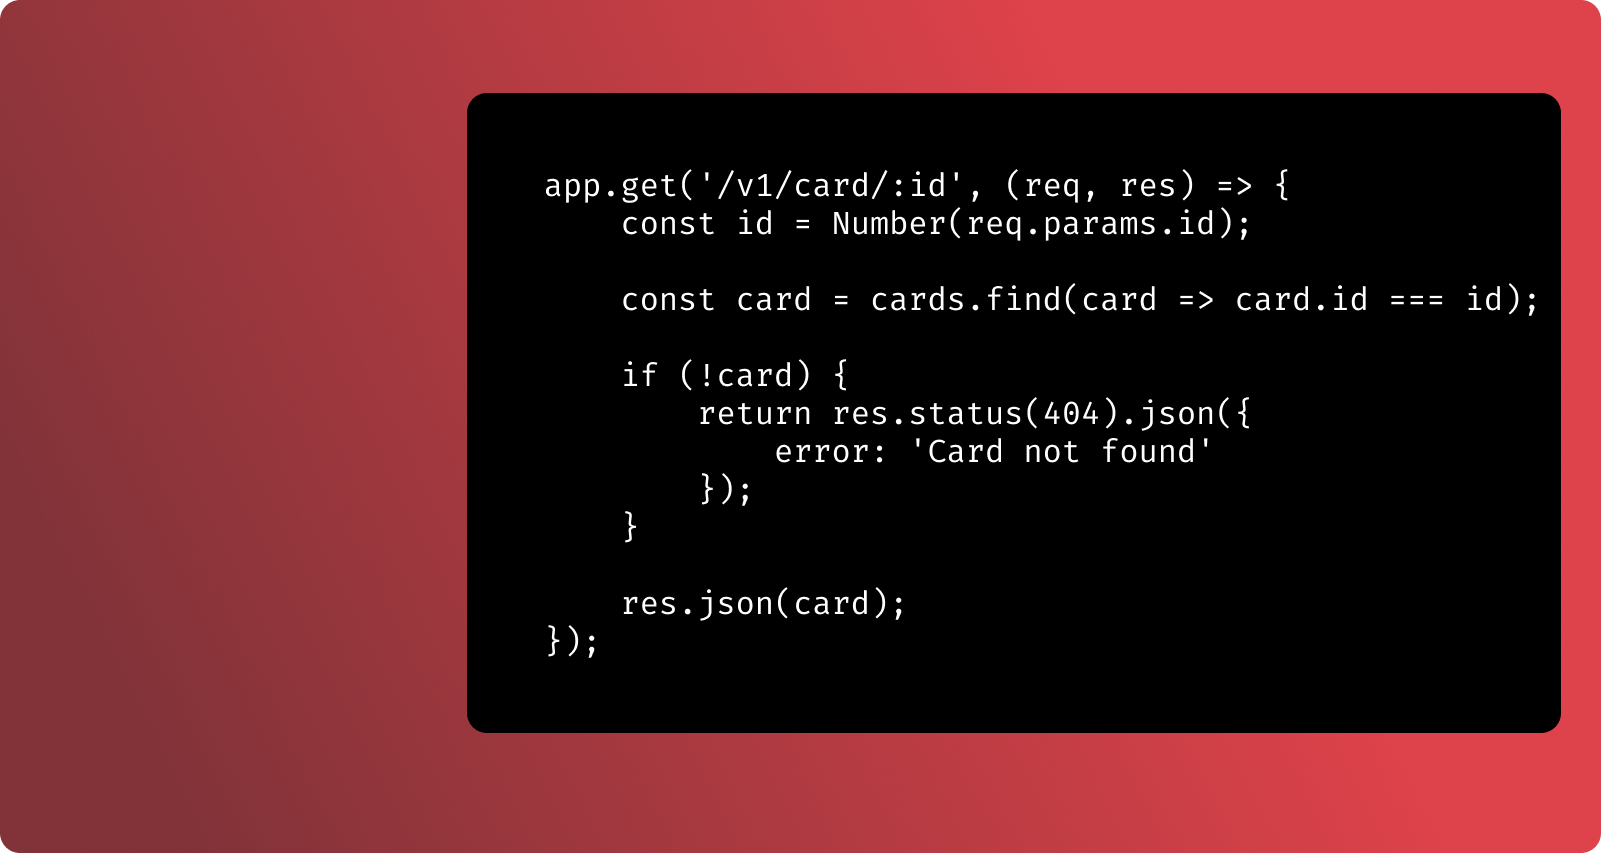
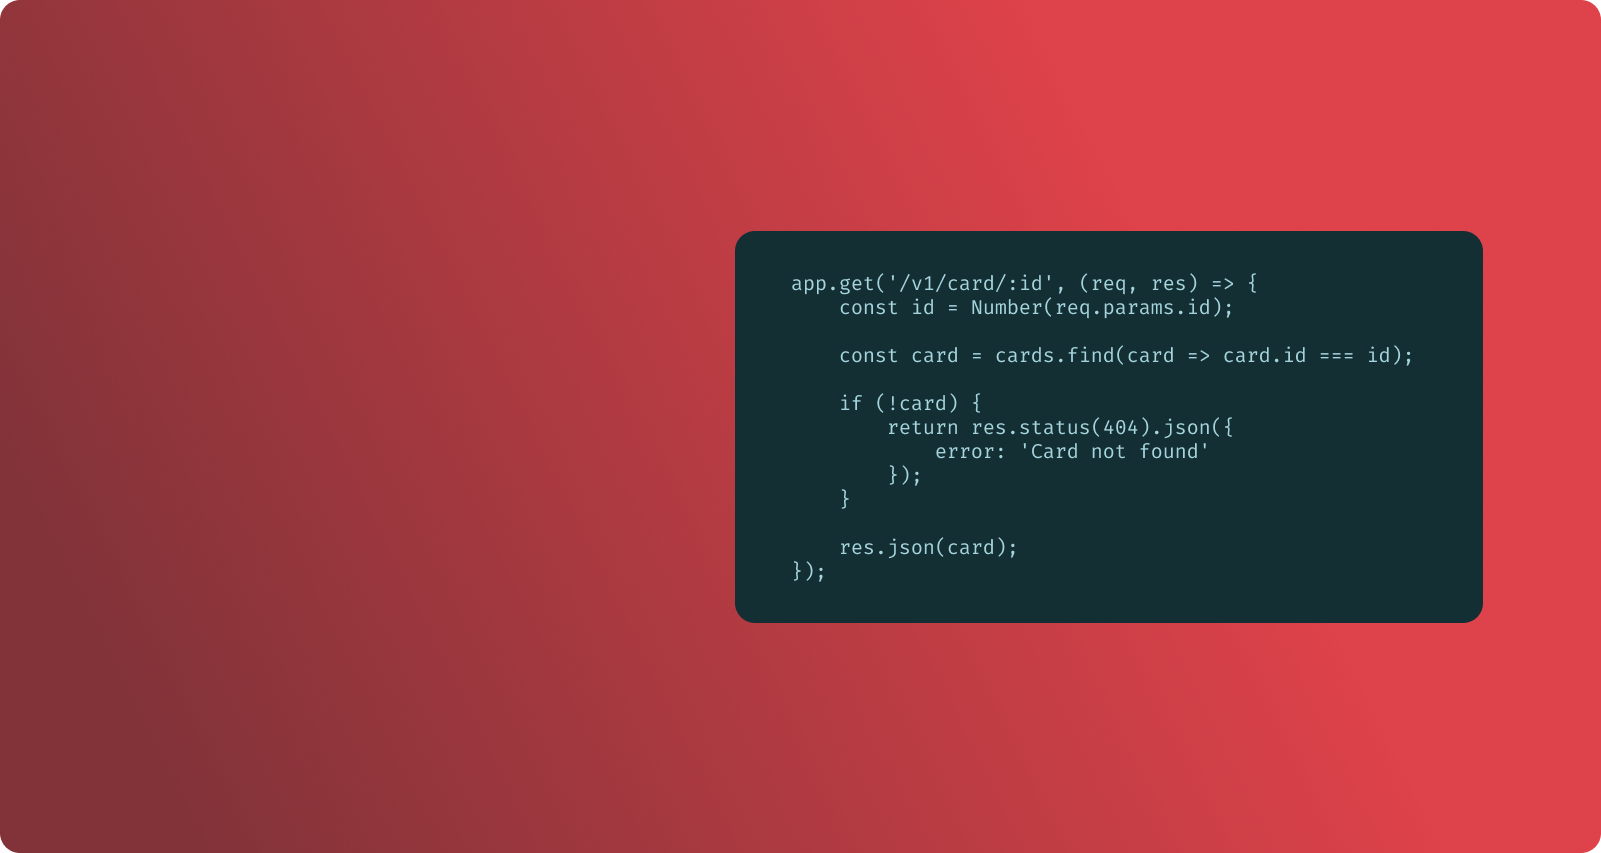
[FIX] updated crousel

diff --git a/data/projects.ts b/data/projects.ts
@@ -3,12 +3,18 @@ export type Techno = {
     link: string;
 };
 
+export type ProjectLink = {
+    url: string;
+    name: string;
+    message: string;
+};
+
 export type Project = {
     title: string;
     category: string;
     image: string;
     description: string;
-    links: string[];
+    links: ProjectLink[];
     techno?: Techno[];
 };
 
@@ -20,69 +26,93 @@ export const projects: Project[] = [
         description:
             'A personal Discord game project, this bot lets you open random cards at regular intervals and then collect and trade them.\n' +
             'I also developed an API to retrieve information about the cards.',
-        links: ['https://github.com/dymonte/bot-wankul-discord/'],
+        links: [
+            {
+                url: 'https://github.com/dymonte/bot-wankul-discord/',
+                name: 'GitHub',
+                message: 'Source code of the Discord bot',
+            },
+        ],
         techno: [
             {
                 name: 'discord.py',
-                link: 'https://discordpy.readthedocs.io/en/stable/pyt'
+                link: 'https://discordpy.readthedocs.io/en/stable/',
             },
-        ]
+        ],
     },
     {
         title: 'API Wankul',
         category: 'Personal Project',
         image: '/images/apiwankul.png',
         description:
-            'Un projet personnel d\'API qui est utilisée par le projet WanRoll.',
-        links: ['https://github.com/dymonte/bot-wankul-discord/'],
+            'A personal API project, used by the WanRoll project to retrieve information about the cards.',
+        links: [
+            {
+                url: 'https://github.com/dymonte/api-wankul/',
+                name: 'GitHub',
+                message: 'Source code of the API',
+            },
+        ],
         techno: [
             {
                 name: 'expressjs',
-                link: 'https://expressjs.com/'
+                link: 'https://expressjs.com/',
             },
-        ]
+        ],
     },
     {
         title: 'miniJaja',
         category: 'University Project - Java',
         image: '/images/mjj.png',
         description:
-            'Un projet de développement web présentant mes compétences techniques.',
-        links: ['https://github.com/dymonte/miniJaja'],
+            'A web development project showcasing my technical skills.',
+        links: [
+            {
+                url: 'https://github.com/dymonte/miniJaja',
+                name: 'GitHub',
+                message: 'Source code of the project',
+            },
+        ],
         techno: [
             {
                 name: 'ANTLR',
-                link: 'https://www.antlr.org/'
+                link: 'https://www.antlr.org/',
             },
             {
                 name: 'Maven',
-                link: 'https://maven.apache.org/'
-            }
-        ]
+                link: 'https://maven.apache.org/',
+            },
+        ],
     },
     {
         title: 'Laby',
-        category: 'University Project - C (optimisation)',
+        category: 'University Project - C (optimization)',
         image: '/images/Laby.png',
         description:
             'This project involves generating random mazes and implementing a pathfinding system to find a path to the exit.\n' +
-            'The code was written in C and optimized for very large arrays (in the billions of cells).\n ' +
-            'A performance monitoring system was implemented to test the program\'s reaction on very large arrays.',
-        links: ['https://github.com/dymonte/Laby/'],
+            'The code was written in C and optimized for very large arrays (in the billions of cells).\n' +
+            "A performance monitoring system was implemented to test the program's behavior on very large arrays.",
+        links: [
+            {
+                url: 'https://github.com/dymonte/Laby/',
+                name: 'GitHub',
+                message: 'Source code',
+            },
+        ],
         techno: [
             {
                 name: 'C',
-                link: 'https://en.wikipedia.org/wiki/C_(programming_language)'
+                link: 'https://en.wikipedia.org/wiki/C_(programming_language)',
             },
             {
                 name: 'Doxygen',
-                link: 'https://www.doxygen.nl/'
+                link: 'https://www.doxygen.nl/',
             },
             {
                 name: 'JaCoCo',
-                link: 'https://github.com/jacoco'
-            }
-        ]
+                link: 'https://github.com/jacoco',
+            },
+        ],
     },
     {
         title: 'Laby3D',
@@ -91,42 +121,65 @@ export const projects: Project[] = [
         description:
             'The goal of this project was to create an interactive game using OpenGL 1.1.\n' +
             'We were given a few requirements, such as the inclusion of collisions, animations, and textures.\n' +
-            'This project was completed by a group of three people. We reused a part of my previous work on Laby for the maze generation.',
-        links: ['https://github.com/Unity2654/Labyrinthe']
+            'This project was completed by a group of three people. We reused part of my previous work on Laby for the maze generation.',
+        links: [
+            {
+                url: 'https://github.com/Unity2654/Labyrinthe',
+                name: 'GitHub',
+                message: "Group's repository",
+            },
+        ],
     },
     {
         title: 'Nyx',
         category: 'University Project - UI/UX',
         image: '/images/nyx.png',
         description:
-            'A figma project for a video game store interface.\n' +
+            'A Figma project for a video game store interface.\n' +
             'Working in pairs, we were tasked with creating a detailed mockup that included prototyping.\n' +
             'The focus was on the project\'s creativity, so we decided to design a game store specializing in relaxing games and adapted the interface to convey that same concept.',
-        links: ['https://www.figma.com/design/IWAByGk3IIHvHFMwnDrg1w/Projet-IHM-CC2---Etudiant'],
+        links: [
+            {
+                url: 'https://www.figma.com/design/IWAByGk3IIHvHFMwnDrg1w/Projet-IHM-CC2---Etudiant',
+                name: 'Figma',
+                message: 'Mockup',
+            },
+            {
+                url: 'https://www.figma.com/proto/IWAByGk3IIHvHFMwnDrg1w/Projet-IHM-CC2---Etudiant?node-id=0-1&t=fBc8IbCD0ywGckb3-1',
+                name: 'Figma',
+                message: 'Interactive prototype'
+            }
+        ],
         techno: [
             {
                 name: 'Figma',
-                link: 'https://www.figma.com/'
-            }
-        ]
+                link: 'https://www.figma.com/',
+            },
+        ],
     },
     {
         title: 'Annalogue',
-        category: 'University Project - MVN, Web',
-        image: '/images/Laby3D.png',
+        category: 'University Project - Maven, Web',
+        image: '/images/annalogue.png',
         description:
             'For this project, a role-playing system was set up among the students to simulate a client and a group of developers.\n' +
-            'We had to set up a website that would allow students to access documents and suggest corrections.',
-        links: ['https://github.com/dymonte/AnnalogueSpring', 'test'],
+            'We had to build a website that would allow students to access documents and suggest corrections.',
+        links: [
+            {
+                url: 'https://github.com/dymonte/AnnalogueSpring',
+                name: 'GitHub',
+                message: 'Source code of the website',
+            },
+        ],
         techno: [
             {
                 name: 'C',
-                link: 'https://en.wikipedia.org/wiki/C_(programming_language)'
+                link: 'https://en.wikipedia.org/wiki/C_(programming_language)',
             },
             {
                 name: 'Maven',
-                link: 'https://maven.apache.org/'
-            }
-        ]
+                link: 'https://maven.apache.org/',
+            },
+        ],
     },
 ];

diff --git a/components/ProjectCarousel.tsx b/components/ProjectCarousel.tsx
@@ -198,17 +198,20 @@ export default function ProjectCarousel() {
                   </ul>
                 </div>
               )}
-              <div className="flex flex-row flex-wrap gap-3">
+              <div className="mt-8 flex flex-row flex-wrap gap-4">
                 {selectedProject.links.map((link) => (
-                  <a
-                    key={link}
-                    href={link}
-                    target="_blank"
-                    rel="noopener noreferrer"
-                    className="mt-8 inline-flex items-center gap-2 rounded-full bg-[#DE424A] px-6 py-3 text-sm font-medium text-white transition hover:brightness-110"
-                  >
-                    {getLinkLabel(link)} ↗
-                  </a>
+                  <div key={link.url} className="flex flex-col items-start gap-1.5">
+                    <a
+                      href={link.url}
+                      target="_blank"
+                      rel="noopener noreferrer"
+                      title={link.message}
+                      className="inline-flex items-center gap-2 rounded-full bg-[#DE424A] px-6 py-3 text-sm font-medium text-white transition hover:brightness-110"
+                    >
+                      {link.name} ↗
+                    </a>
+                    <span className="px-2 text-xs text-[#A6D4DD]/70">{link.message}</span>
+                  </div>
                 ))}
               </div>
 
